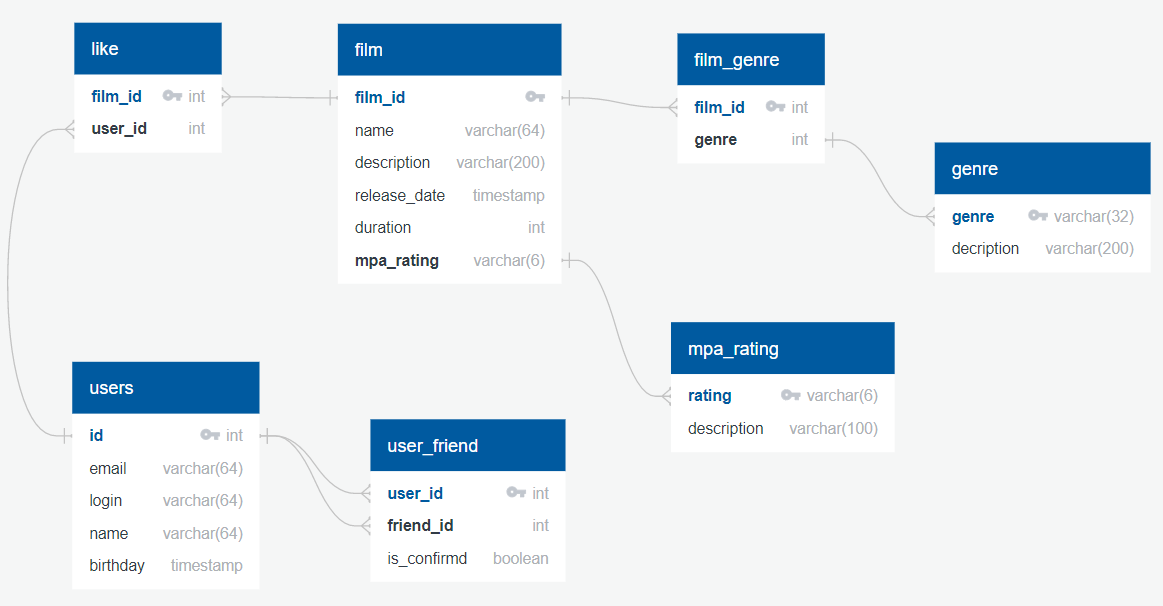
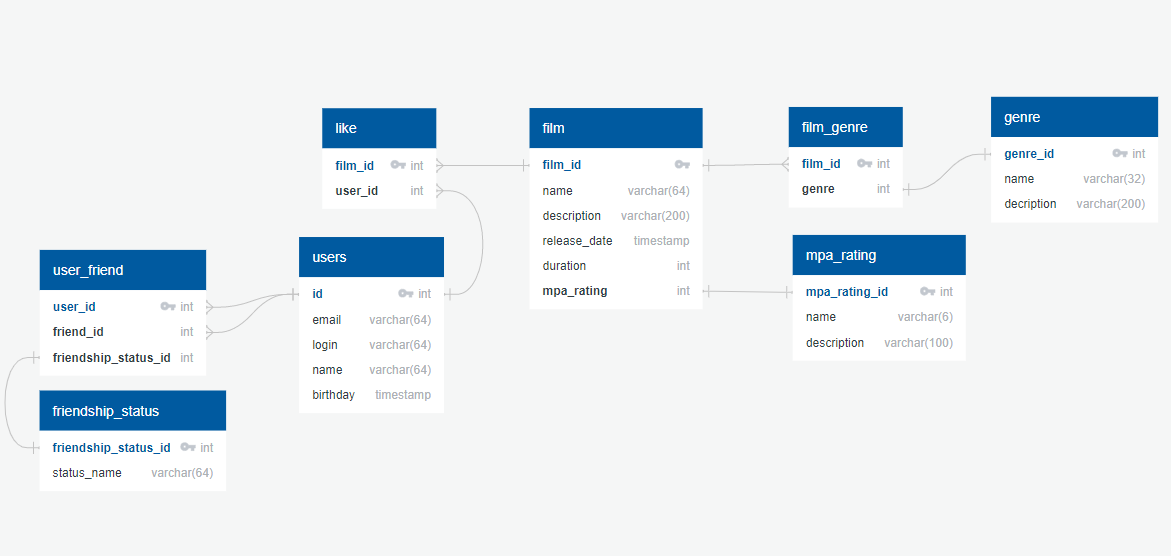
feat: исправлены замечания по ER-диаграмме и запросам

diff --git a/README.md b/README.md
@@ -6,27 +6,31 @@ https://app.quickdatabasediagrams.com/#/d/ozfp4o
 
 #### Примеры SQL запросов:
 - Получить список названий всех фильмов  
+  ```` SQL
   SELECT name FROM film;
-
+  
 - Получить список всех пользователей  
+  ```` SQL
   SELECT * FROM users
 
 - Получить топ 10 популярных фильмов  
+  ```` SQL
   SELECT name  
   FROM film AS f  
   INNER JOIN like AS l ON f.film_id = like.film_id  
   GROUP BY name  
-  ORDER BY COUNT(like.user.id) DESC  
+  ORDER BY COUNT(like.user_id) DESC  
   LIMIT (10);
 
 - Получить список id общих друзей пользователей user1 и user2  
-  с id = 1 и id = 2
-
-  SELECT friend_id  
-  FROM user_friend AS uf_1  
-  WHERE user_id = 1  
-  INNER JOIN (  
-  SELECT friend_id  
-  FROM user_friend  
-  WHERE user_id = 2  
-  ) AS uf_2 ON uf_1.friend_id = uf_2.friend_id;  
+  с id = 1 и id = 2 (id подтверждённой дружбы - 2)
+  ```` SQL
+  SELECT friend_id
+  FROM user_friend
+  WHERE user_id = 1,
+        friendship_status_id = 2
+      INTERSECT
+  SELECT friend_id
+  FROM user_friend
+  WHERE user_id = 2 
+        friendship_status_id = 2;  
